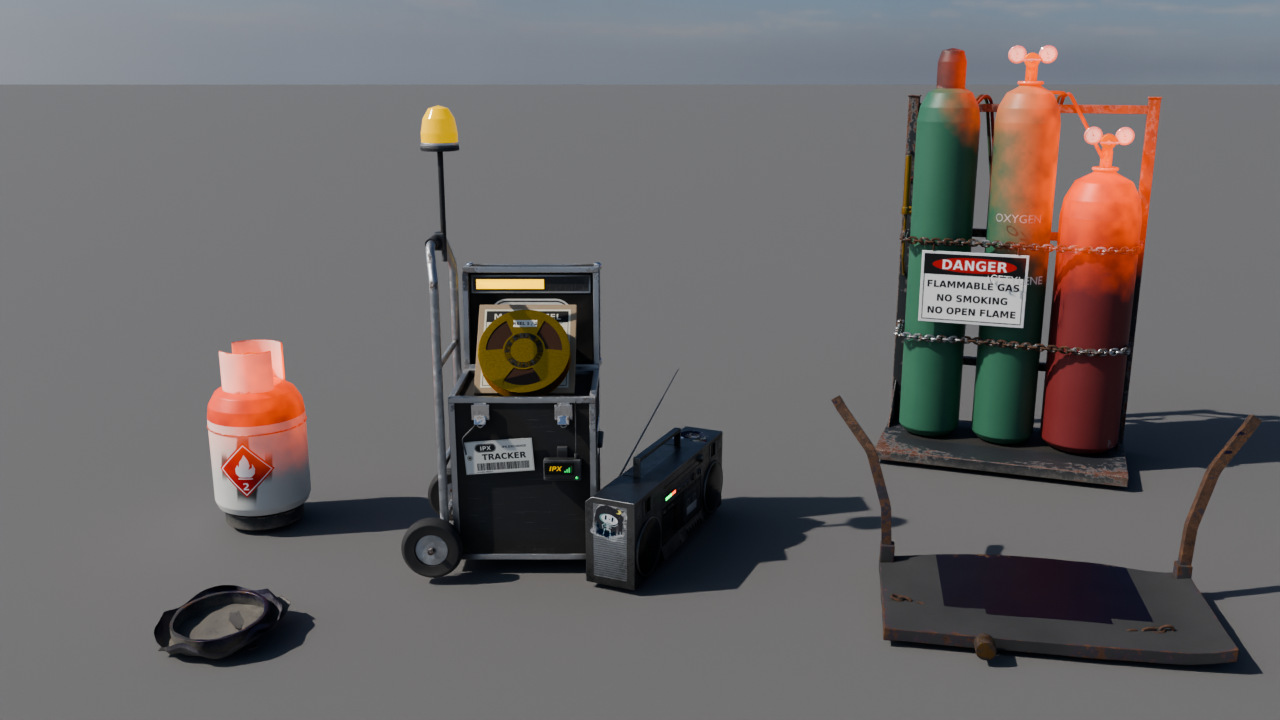
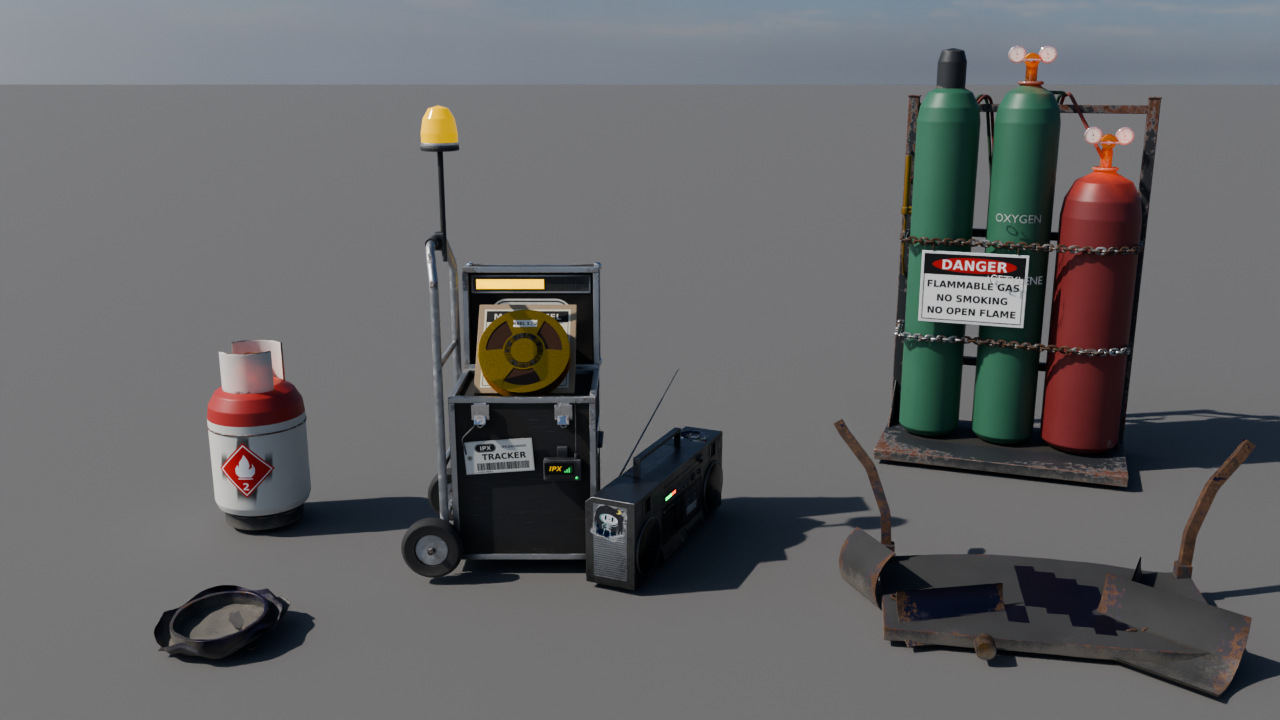
gaps: denser crowns, lighter leaves, open hydrant, licence plate and faces, barber-pole glass, rack wreck simplified; previews round 2
Claude-Session: https://claude.ai/code/session_01HkcHdD7NbyxwnFfuuSpZY4

diff --git a/art/blender/assets/gaps.py b/art/blender/assets/gaps.py
@@ -1419,7 +1419,7 @@ GROUPS = {
              "SM_Prop_ToolChest", "SM_Prop_CrateWood", "SM_Prop_CrateWood_B", "SM_Prop_CardboardBoxes", "SM_Prop_Tire"],
 }
 PREVIEWS = {"gaps_street": "street", "gaps_yard": "yard"}
-GRAPHICS = ["SM_Street_PhoneBooth", "SM_Street_SignPost", "SM_Sign_PawnBalls", "SM_Sign_BarberPole", "SM_Prop_VendingMachine",
+GRAPHICS = ["SM_Street_Hydrant_Open", "SM_Sign_LicensePlate", "SM_Street_PhoneBooth", "SM_Street_SignPost", "SM_Sign_PawnBalls", "SM_Sign_BarberPole", "SM_Prop_VendingMachine",
             "SM_Prop_CrateWood_B", "SM_Prop_CardboardBoxes", "SM_Street_FoodCart"]
 
 
@@ -1532,7 +1532,23 @@ YARD_VIEW = {"SM_Prop_CarLift": (-4.6, 2.4, 0), "SM_Prop_CarLift_Arms": (-4.6, 2
 GRAPHICS_VIEW = {"SM_Sign_PawnBalls": (-1.0, 2.0, 0, 2.6), "SM_Sign_BarberPole": (1.6, 2.0, 0, 1.15), "SM_Street_PhoneBooth": (-2.7, 0.9, 0),
                  "SM_Street_SignPost": (0.35, -0.5, 0), "SM_Prop_VendingMachine": (2.9, 1.3, 0), "SM_Prop_CrateWood_B": (1.1, 0.0, -60),
                  "SM_Prop_CardboardBoxes": (2.1, -0.9, -15), "_meter": (-1.6, -0.9, 0), "_news": (-1.15, 1.3, 0), "_mail": (-0.35, 1.35, 0),
-                 "_booth": (5.2, 1.6, 0), "_banner": (0.0, 1.98, 0, 3.4)}
+                 "_booth": (5.2, 1.6, 0), "_banner": (0.0, 1.98, 0, 3.4), "SM_Street_Hydrant_Open": (-1.9, 0.2, 0),
+                 "SM_Sign_LicensePlate": (-2.05, 1.995, 0, 1.45)}
+
+
+def glass_shadows_pass(m):
+    """Preview only: Cycles renders no caustics, so anything behind glass sits in its shadow (black barber pole);
+    Unreal translucency does not shadow like that. Let shadow rays through the glass."""
+    nt = m.node_tree
+    out = next(n for n in nt.nodes if n.bl_idname == "ShaderNodeOutputMaterial")
+    src = out.inputs["Surface"].links[0].from_socket
+    lp = nt.nodes.new("ShaderNodeLightPath")
+    tr = nt.nodes.new("ShaderNodeBsdfTransparent")
+    mix = nt.nodes.new("ShaderNodeMixShader")
+    nt.links.new(lp.outputs["Is Shadow Ray"], mix.inputs[0])
+    nt.links.new(src, mix.inputs[1])
+    nt.links.new(tr.outputs[0], mix.inputs[2])
+    nt.links.new(mix.outputs[0], out.inputs["Surface"])
 
 
 def on_preview(ctx, objs):
@@ -1560,6 +1576,7 @@ def on_preview(ctx, objs):
             bpy.data.objects.remove(o, do_unlink=True)
     if "gaps_graphics" in only:
         M = ctx.M
+        glass_shadows_pass(M["glass"])
         Q = Quiet(ctx)
         extra = {"_meter": F.parking_meter(Q, M), "_news": F.newspaper_box(Q, M), "_mail": F.mailbox(Q, M), "_booth": F.lot_booth(Q, M)}
         bb = B(299)

diff --git a/art/blender/assets/props.py b/art/blender/assets/props.py
@@ -1276,7 +1276,6 @@ def build_rack_wreck(ctx, M):
     geo.set_verts(pl, co)
     geo.displace(pl, 0.003, 12.0, 21)
     part(pl, W["soot"])
-    geo.assign(pl, W["blued"], lambda x, y, z: (np.sin(x * 9.0 + 1.0) + np.cos(y * 11.0) + 0.6 * np.sin(x * 23 + y * 17)) > 0.9)
     P.append(pl)
     for sx in (-1, 1):                                                       # two bent posts leaning out
         path = [(sx * 0.41, 0.20, 0.03), (sx * 0.42, 0.21, 0.18), (sx * 0.47, 0.24, 0.31), (sx * 0.55, 0.28, 0.40), (sx * 0.57, 0.29, 0.43)]
@@ -1286,8 +1285,8 @@ def build_rack_wreck(ctx, M):
         P.append(post)
         stub = geo.box((0.04, 0.04, 0.06), bevel=0.003)
         P.append(part(X(stub, (sx * 0.41, 0.20, 0.03)), W["soot"]))
-    for k, (x, y, rz, ang, h) in enumerate(((-0.22, -0.22, 20, 80, 0.30), (0.22, -0.24, -35, 110, 0.36), (0.36, 0.05, 70, 60, 0.24),
-                                             (-0.40, 0.10, 120, 90, 0.20))):
+    for k, (x, y, rz, ang, h) in enumerate(((-0.22, -0.24, 20, 80, 0.18), (0.24, -0.26, -35, 100, 0.22), (0.40, 0.10, 70, 60, 0.15),
+                                             (-0.42, 0.12, 120, 90, 0.14))):
         r = 0.115 if k != 1 else 0.14                                            # burst cylinder shells lying on the ground
         sh = geo.revolve([(r, 0.0), (r, h)], 24, angle=ang, name="shell")
         geo.densify(sh, 0.02, 3)
